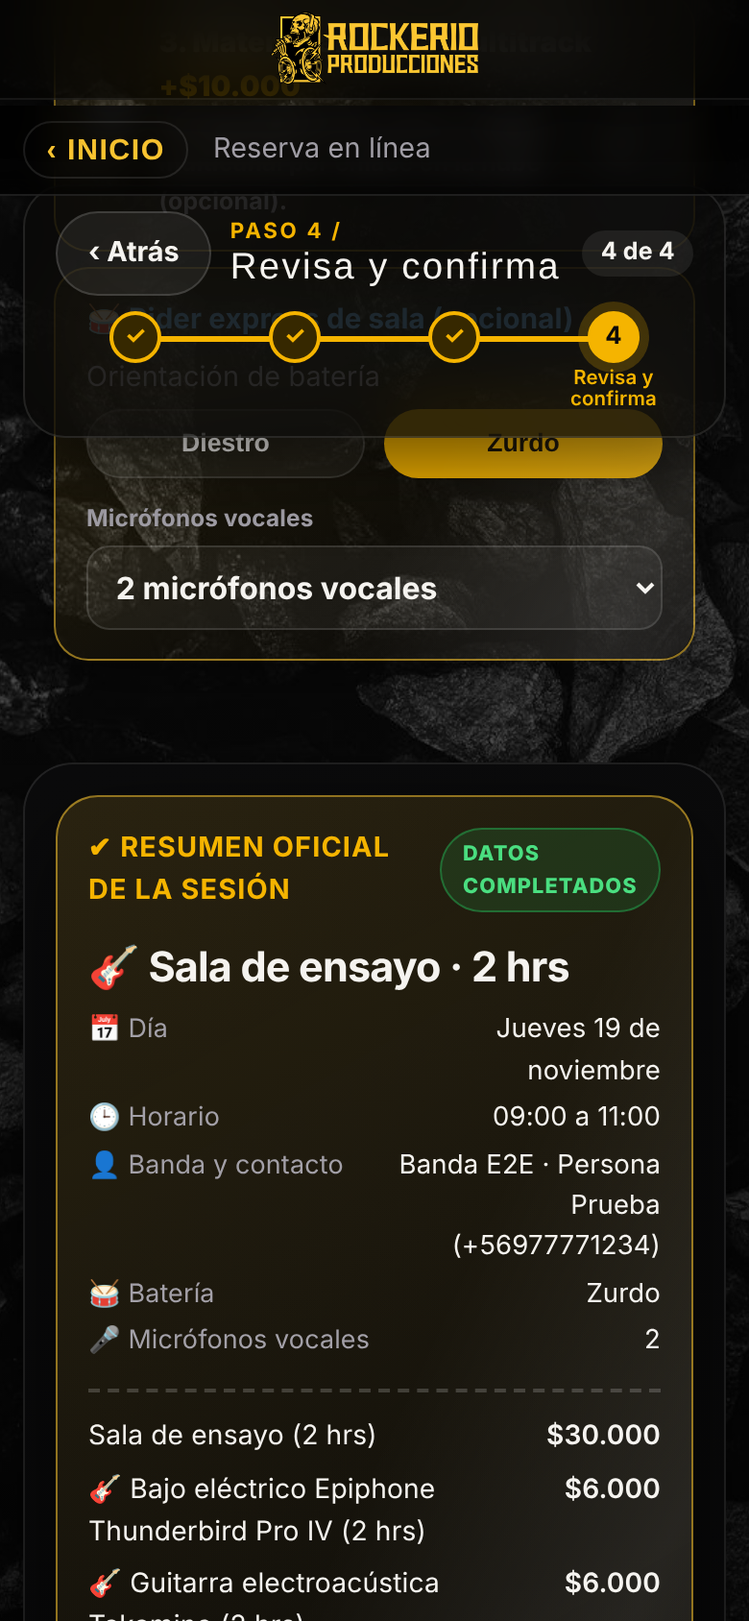
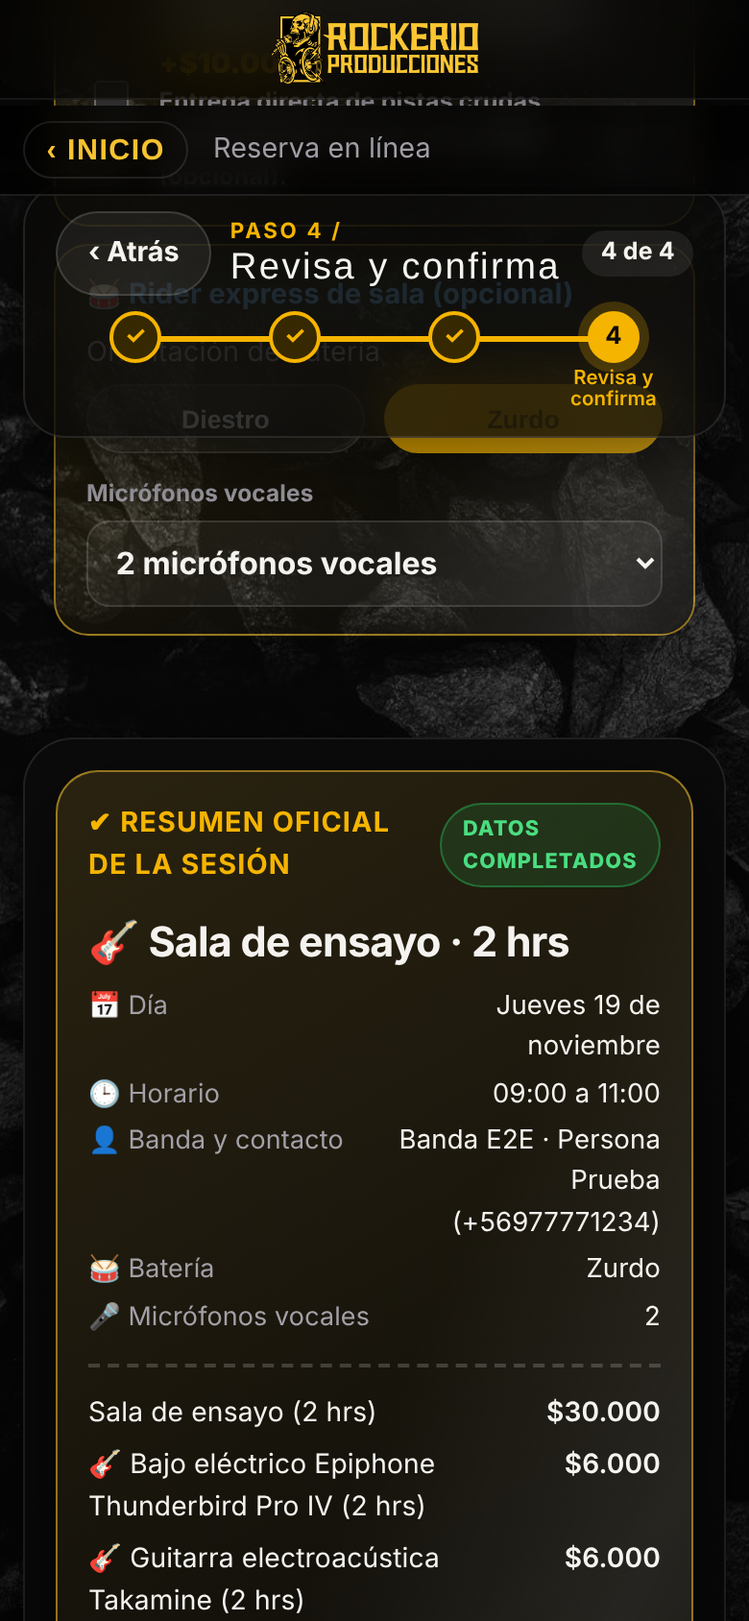
GoPro también en grabación (bruto solo ensayo), extras a la vista, reserva sin abono ya no se libera sola por defecto
Claude-Session: https://claude.ai/code/session_01XCoHY3KD5S9ag2ugMqjwE4

diff --git a/index.html b/index.html
@@ -17,15 +17,15 @@
 <link rel="icon" href="assets/favicon.png">
 <link rel="preconnect" href="https://fonts.googleapis.com">
 <link href="https://fonts.googleapis.com/css2?family=Oswald:wght@500;700&family=Inter:wght@400;600&display=swap" rel="stylesheet">
-<link rel="stylesheet" href="css/styles.css?v=202611180026">
-<link rel="stylesheet" href="css/temas.css?v=202611180026">
-<link rel="stylesheet" href="css/movil.css?v=202611180026">
-<link rel="stylesheet" href="css/clasico.css?v=202611180026">
-<link rel="stylesheet" href="css/pulido.css?v=202611180026">
-<link rel="stylesheet" href="css/produccion.css?v=202611180026">
-<link rel="stylesheet" href="css/legible.css?v=202611180026">
+<link rel="stylesheet" href="css/styles.css?v=202611180043">
+<link rel="stylesheet" href="css/temas.css?v=202611180043">
+<link rel="stylesheet" href="css/movil.css?v=202611180043">
+<link rel="stylesheet" href="css/clasico.css?v=202611180043">
+<link rel="stylesheet" href="css/pulido.css?v=202611180043">
+<link rel="stylesheet" href="css/produccion.css?v=202611180043">
+<link rel="stylesheet" href="css/legible.css?v=202611180043">
 <script>(function(){try{var q=/[?&]rediseno=(\d)/.exec(location.search);if(q)localStorage.setItem('rk-rd',q[1]);if(localStorage.getItem('rk-rd')!=='0'){document.documentElement.classList.add('rd');['css/rediseno.css','https://fonts.googleapis.com/css2?family=Space+Grotesk:wght@500;700&display=swap'].forEach(function(h){var l=document.createElement('link');l.rel='stylesheet';l.href=h;document.head.appendChild(l)})}}catch(e){}})()</script>
-<script src="js/tema.js?v=202611180026"></script><script src="js/teclado.js?v=202611180026" defer></script>
+<script src="js/tema.js?v=202611180043"></script><script src="js/teclado.js?v=202611180043" defer></script>
 <link rel="stylesheet" href="https://fonts.googleapis.com/css2?family=Playfair+Display:wght@600;800&family=Nunito:wght@400;700&family=Space+Mono:wght@400;700&family=Archivo+Black&family=Bebas+Neue&family=Big+Shoulders+Display:wght@800;900&family=Poppins:wght@400;600&display=swap"></head>
 <body>
 <div id="aviso" class="aviso" hidden></div>
@@ -113,13 +113,13 @@
         <label>Comentarios (opcional)<textarea id="comentario" maxlength="300" rows="2"></textarea></label>
         <input type="text" id="web" name="web" tabindex="-1" autocomplete="off" aria-hidden="true" class="trampa">
       </fieldset>
-      <fieldset id="adicionales" class="paso off plegable">
+      <fieldset id="adicionales" class="paso off plegable abierto">
         <legend>Adicionales (opcional)</legend>
-        <button type="button" id="ex-toggle" class="ex-toggle" aria-expanded="false"><span class="ex-mas">＋</span><span class="ex-tx"><b>¿Quieres sumar extras a tu sesión?</b><small>Arriendo de equipos · video GoPro · material en bruto (opcional)</small></span><span class="ex-flecha">›</span></button>
+        <button type="button" id="ex-toggle" class="ex-toggle" aria-expanded="true"><span class="ex-mas">＋</span><span class="ex-tx"><b>¿Quieres sumar extras a tu sesión?</b><small>Arriendo de equipos · video GoPro · material en bruto (opcional)</small></span><span class="ex-flecha">›</span></button>
         <p class="ex-tit">⚡ Extras simplificados y opcionales</p>
         <div class="ex-card"><div class="ex-cab"><b>1. Arriendos de equipos y accesorios</b><span id="p-extra"></span></div>
           <div id="arriendo-lista" class="ex-lista"></div><input type="hidden" id="extras" value="0"></div>
-        <label class="ex-card ex-chk chk"><input type="checkbox" id="video"><span><b>2. Grabación en video GoPro Hero 13 <em id="p-video"></em></b><small>Registro audiovisual de la sesión de sala.</small></span></label>
+        <label class="ex-card ex-chk chk"><input type="checkbox" id="video"><span><b>2. Grabación en video GoPro Hero 13 <em id="p-video"></em></b><small>Registro audiovisual de tu sesión (ensayo o grabación).</small></span></label>
         <label class="ex-card ex-chk chk"><input type="checkbox" id="raw"><span><b>3. Material en bruto multitrack <em id="p-raw"></em></b><small>Entrega directa de pistas crudas multicanal por enlace en la nube (opcional).</small></span></label>
         <div class="ex-card ex-rider"><div class="ex-cab"><b>🥁 Rider express de sala (opcional)</b></div>
           <div class="ex-fila"><div><span class="lbl">Orientación de batería</span><div class="segm ex-segm" id="orient" role="group"><button type="button" class="on" data-z="0">Diestro</button><button type="button" data-z="1">Zurdo</button></div><input type="checkbox" id="zurdo" hidden></div>
@@ -360,14 +360,14 @@
 
 <footer><p class="pie-chips"><span class="chip-ok">● Agenda oficial Rockerío conectada</span></p><img src="assets/marcas/calavera.png" alt="ROCKERÍO Producciones"> <span id="pie"></span></footer>
 
-<script src="js/config.js?v=202611180026"></script>
-<script src="js/reglas.js?v=202611180026"></script>
-<script src="js/app.js?v=202611180026"></script>
-<script src="js/planes.js?v=202611180026"></script>
-<script src="js/mezclador.js?v=202611180026"></script>
-<script src="js/contenido.js?v=202611180026"></script>
-<script src="js/pasos.js?v=202611180026"></script>
-<script src="js/vistas.js?v=202611180026"></script><script src="js/visitas.js?v=202611180026" defer></script>
+<script src="js/config.js?v=202611180043"></script>
+<script src="js/reglas.js?v=202611180043"></script>
+<script src="js/app.js?v=202611180043"></script>
+<script src="js/planes.js?v=202611180043"></script>
+<script src="js/mezclador.js?v=202611180043"></script>
+<script src="js/contenido.js?v=202611180043"></script>
+<script src="js/pasos.js?v=202611180043"></script>
+<script src="js/vistas.js?v=202611180043"></script><script src="js/visitas.js?v=202611180043" defer></script>
 <script>(function(){var h=document.querySelector(".hero-marca");if(!h||matchMedia("(prefers-reduced-motion:reduce)").matches)return;addEventListener("scroll",function(){h.style.setProperty("--par",Math.min(scrollY*.12,60)+"px")},{passive:true})})();</script>
 </body>
 </html>

diff --git a/js/app.js b/js/app.js
@@ -137,7 +137,7 @@
     txt($('dir'), cfg.direccion); txt($('dir2'), String(cfg.direccion || '').replace(/[\s·]+$/, '').toUpperCase()); $('franja-dir').hidden = !cfg.direccion;
     txt($('max-dias'), String(cfg.anticipacionMaxDias));
     $('wsp').href = wspUrl('Hola 👋 Me gustaría consultar por ' + cfg.nombreNegocio);
-    txt($('tyc-txt'), 'Leí el reglamento interno y acepto que el horario queda reservado ' + cfg.minutosReserva + ' minutos a la espera del abono (' + R.clp(cfg.abonoPorHora) + ' por hora) y que puedo anular o reagendar con al menos ' + cfg.horasAnulacion + ' horas de anticipación. También acepto que usen mis datos personales para gestionar mi reserva, según la sección «Protección de datos personales».');
+    txt($('tyc-txt'), 'Leí el reglamento interno y acepto que el horario queda reservado ' + (cfg.liberarSolo ? 'por ' + cfg.minutosReserva + ' minutos ' : '') + 'a la espera del abono (' + R.clp(cfg.abonoPorHora) + ' por hora) y que puedo anular o reagendar con al menos ' + cfg.horasAnulacion + ' horas de anticipación. También acepto que usen mis datos personales para gestionar mi reserva, según la sección «Protección de datos personales».');
     var rl = el('a', 'ver-reg', ' Ver reglamento'); rl.href = '#reglamento'; rl.setAttribute('role', 'button');
     rl.addEventListener('click', function (e) { e.preventDefault(); e.stopPropagation(); abrirReglamento(); }); $('tyc-txt').appendChild(rl);
     txt($('pie'), '© ' + new Date().getFullYear() + ' ' + cfg.nombreNegocio);
@@ -404,8 +404,13 @@
     else ai.hidden = true;
     pintarArriendos();
     var ens = S.servicio === 'ensayo', addOk = R.addonsPermitidos(cfg, S.servicio, S.horas);
-    $('adicionales').hidden = !ens;
-    ['video', 'raw'].forEach(function (id) { $(id).closest('label').style.display = addOk ? '' : 'none'; if (!addOk) $(id).checked = false; });
+    var vidOk = R.videoPermitido(cfg, S.servicio, S.horas);
+    $('adicionales').hidden = !(ens || S.servicio === 'grabacion');
+    $('adicionales').classList.toggle('solo-grab', !ens);
+    var exs = $('ex-toggle').querySelector('small'); if (exs) exs.textContent = ens ? 'Arriendo de equipos · video GoPro · material en bruto (opcional)' : 'Video GoPro de tu sesión (opcional)';
+    var exb = $('video').nextElementSibling.querySelector('b'); if (exb) exb.firstChild.nodeValue = (ens ? '2. ' : '1. ') + 'Grabación en video GoPro Hero 13 ';
+    $('video').closest('label').style.display = vidOk ? '' : 'none'; if (!vidOk) $('video').checked = false;
+    $('raw').closest('label').style.display = addOk ? '' : 'none'; if (!addOk) $('raw').checked = false;
     renumerar();
   }
 
@@ -495,7 +500,7 @@
         var arr = arriendosElegidos(), unit = arr.length ? Math.round(p.extras / arr.length) : p.extras;
         arr.forEach(function (n) { linea('🎸 ' + n.split(':')[0] + (cfg.extraModo === 'hora' ? ' (' + S.horas + (S.horas === 1 ? ' hr' : ' hrs') + ')' : ''), unit); });
       }
-      if (p.video && s.video && ok) linea('🎥 Grabación en video GoPro Hero 13', p.video);
+      if (p.video && s.video && R.videoPermitido(cfg, S.servicio, S.horas)) linea('🎥 Grabación en video GoPro Hero 13', p.video);
       if (p.raw && s.raw && ok) linea('💾 Material en bruto multitrack', p.raw);
       if (p.horasConveniente) its.appendChild(el('div', 'nota ahorro', '✔ Tarifa conveniente aplicada en ' + p.horasConveniente + (p.horasConveniente === 1 ? ' hora' : ' horas') + ' (ahorras ' + R.clp(p.ahorro) + ').'));
       if (g) its.appendChild(el('div', 'nota ahorro', '🎙 Incluye ' + R.minutosTxt(g) + ' de grabación con mezcla.'));
@@ -525,7 +530,7 @@
     var tk = el('div', 'ro-ticket'); var tl = el('div'); tl.appendChild(el('small', '', 'Ticket de reserva generado:')); tl.appendChild(el('b', 'cod', o.titulo.replace(/^.*?(#\S+).*$/, '$1').charAt(0) === '#' ? o.titulo.replace(/^.*?(#\S+).*$/, '$1') : o.titulo)); tk.appendChild(tl);
     var cupo = el('div', 'ro-cupo'); cupo.setAttribute('role', 'timer'); tk.appendChild(cupo); box.appendChild(tk);
     var res = el('div', 'ro-det'); o.lineas.forEach(function (l) { res.appendChild(el('p', '', l)); }); box.appendChild(res);
-    var tm = el('div', 'ro-abono'); var ta = el('div'); ta.appendChild(el('b', '', 'Abona ' + R.clp(o.monto) + ' para confirmar tu horario')); ta.appendChild(el('small', '', 'Tu horario queda tomado por ' + o.pago.minutosReserva + ' minutos; si no llega el abono, se libera solo.')); tm.appendChild(ta); tm.appendChild(el('b', 'v', R.clp(o.monto))); box.appendChild(tm);
+    var tm = el('div', 'ro-abono'); var ta = el('div'); ta.appendChild(el('b', '', 'Abona ' + R.clp(o.monto) + ' para confirmar tu horario')); ta.appendChild(el('small', '', cfg.liberarSolo ? 'Tu horario queda tomado por ' + o.pago.minutosReserva + ' minutos; si no llega el abono, se libera solo.' : 'Tu horario queda guardado a tu nombre. Cuando abones, avísanos con el comprobante para confirmarlo.')); tm.appendChild(ta); tm.appendChild(el('b', 'v', R.clp(o.monto))); box.appendChild(tm);
     var bts = el('div', 'ro-bts'); box.appendChild(bts);
     if (o.pago.link) { var p = el('a', 'ro-b ro-azul', '💳 Pagar abono en línea (instantáneo)'); p.href = o.pago.link; p.target = '_blank'; p.rel = 'noopener'; bts.appendChild(p); }
     if (o.pago.mp && o.pagar) {
@@ -568,7 +573,7 @@
       });
       box.appendChild(yp);
     }
-    iniciarCuenta(cupo, o.pago.segundos, bts);
+    iniciarCuenta(cupo, cfg.liberarSolo ? o.pago.segundos : 0, bts);
     box.scrollIntoView({ behavior: 'smooth', block: 'center' });
   }
   function avisoPago(box, texto, bueno) {

diff --git a/js/reglas.js b/js/reglas.js
@@ -94,6 +94,7 @@ var Reglas = (function () {
     anticipacionMinHoras: 4,
     anticipacionMaxDias: 21,      // se puede reservar desde hoy hasta 21 días después
     planMaxDias: 35,              // los planes mensuales pueden agendar sus 4 sesiones hasta 35 días adelante
+    liberarSolo: false,           // NO: el horario sin abono queda guardado hasta que lo confirmes o anules; SI: se libera solo tras minutosReserva
     minutosReserva: 20,           // minutos que el horario queda tomado esperando el abono; luego se libera solo (5 a 180)
     horasAnulacion: 24,
     retencionPorHora: 1000,
@@ -231,6 +232,7 @@ var Reglas = (function () {
     c.heroTitulo = aTexto(raw.heroTitulo, d.heroTitulo) || d.heroTitulo; c.heroTexto = aTexto(raw.heroTexto, d.heroTexto) || d.heroTexto;
     ['verProduccion', 'verFicha', 'verPlanes', 'verGaleria', 'verEvaluaciones', 'verProaudix', 'verContacto', 'verTienda', 'verHonor', 'verCotizar', 'verReglamento', 'verVivo'].forEach(function (k) { c[k] = aBool(raw[k], d[k]); });
     c.visitasActivo = aBool(raw.visitasActivo, d.visitasActivo);
+    c.liberarSolo = aBool(raw.liberarSolo, d.liberarSolo);
     ['colorEnsayo', 'colorEstudio', 'colorPlan8', 'colorPlan12', 'colorVivo', 'colorBloqueo'].forEach(function (k) { var t = String(raw[k] === undefined || raw[k] === null ? '' : raw[k]).trim().toLowerCase(); c[k] = /^#[0-9a-f]{6}$/.test(t) ? t : d[k]; });
     c.vivoDias = VIVO_DIAS[aTexto(raw.vivoDias, d.vivoDias)] ? aTexto(raw.vivoDias, d.vivoDias) : d.vivoDias;
     c.vivoPrecio = Math.max(0, Math.round(aNumero(raw.vivoPrecio, d.vivoPrecio)));
@@ -281,6 +283,10 @@ var Reglas = (function () {
   function addonsPermitidos(cfg, servicio, horas) {
     return servicio === 'ensayo' && horas >= cfg.addonsMinHoras;
   }
+  /** El video GoPro se ofrece en ensayo y en grabación; el material en bruto solo en ensayo. */
+  function videoPermitido(cfg, servicio, horas) {
+    return (servicio === 'ensayo' || servicio === 'grabacion') && horas >= cfg.addonsMinHoras;
+  }
 
   /** Total = precio x horas + extras + video + material en bruto. Abono = abonoPorHora x horas. */
   /**
@@ -316,10 +322,8 @@ var Reglas = (function () {
       var n = Math.max(0, Math.min(6, +p.extras || 0));
       extras = n * cfg.precioExtraEquipo * (cfg.extraModo === 'hora' ? horas : 1);
     }
-    if (addonsPermitidos(cfg, p.servicio, horas)) {
-      video = p.video ? cfg.precioVideo : 0;
-      raw = p.raw ? cfg.precioRaw : 0;
-    }
+    if (videoPermitido(cfg, p.servicio, horas)) video = p.video ? cfg.precioVideo : 0;
+    if (addonsPermitidos(cfg, p.servicio, horas)) raw = p.raw ? cfg.precioRaw : 0;
     var total = base + extras + video + raw;
     var abono = Math.min(total, cfg.abonoPorHora * horas);
     return { base: base, extras: extras, video: video, raw: raw, total: total, abono: abono, saldo: total - abono, horasConveniente: tc.horas, ahorro: (porHora - tc.precio) * tc.horas };
@@ -505,7 +509,8 @@ var Reglas = (function () {
     }
     if (d.servicio !== 'ensayo') d.extras = 0;
     var calculo = calcularPrecio(cfg, d);
-    if (!addonsPermitidos(cfg, d.servicio, d.horas)) { d.video = false; d.raw = false; }
+    if (!videoPermitido(cfg, d.servicio, d.horas)) d.video = false;
+    if (!addonsPermitidos(cfg, d.servicio, d.horas)) d.raw = false;
     return {
       ok: true,
       datos: d,
@@ -565,7 +570,7 @@ var Reglas = (function () {
     CLAUSULA_DATOS: CLAUSULA_DATOS, TZ: TZ, SERVICIOS: SERVICIOS, VIVO_DIAS: VIVO_DIAS, vivoDiaValido: vivoDiaValido, DIAS: DIAS, CONFIG_POR_DEFECTO: CONFIG_POR_DEFECTO, datosTransf: datosTransf,
     aNumero: aNumero, aBool: aBool, clp: clp, horaTxt: horaTxt, fechaValida: fechaValida, diaSemana: diaSemana,
     diasEntre: diasEntre, sumarDias: sumarDias, fechaLarga: fechaLarga, parseBloque: parseBloque, parseEscala: parseEscala,
-    normalizarConfig: normalizarConfig, limitesHoras: limitesHoras, addonsPermitidos: addonsPermitidos,
+    normalizarConfig: normalizarConfig, limitesHoras: limitesHoras, addonsPermitidos: addonsPermitidos, videoPermitido: videoPermitido,
     calcularPrecio: calcularPrecio, grabacionIncluidaMin: grabacionIncluidaMin, llenarPlantilla: llenarPlantilla, tarifaConveniente: tarifaConveniente, minutosTxt: minutosTxt,
     horasAbiertas: horasAbiertas, horasLibres: horasLibres, inicios: inicios, planInfo: planInfo, validarPlan: validarPlan, finPlan: finPlan, diasPlan: diasPlan,
     normalizarTelefono: normalizarTelefono, correoValido: correoValido, telefonoValido: telefonoValido,

diff --git a/apps-script/Admin.html b/apps-script/Admin.html
@@ -1616,7 +1616,7 @@ var ARRIENDOS_RM=['Set de platos Kingdo SN8 (B8): Hi-Hat 14” / Crash 16” / C
 function pintarDet(box,c){box.textContent='';var t=el_('div','rm-res');function ln(a,v,cl){var p=el_('div',cl||'');p.style.cssText='display:flex;justify-content:space-between;gap:10px';p.appendChild(el_('span','',a));p.appendChild(el_('b','',v));t.appendChild(p)}
   ln('Servicio ('+RM.horas+(RM.horas===1?' hora':' horas')+')',clp(c.base));
   if(RM.servicio==='ensayo')RM.equipos.forEach(function(n){ln('🎸 '+n.split(':')[0],clp(c.unidadExtra))});
-  if(RM.video)ln('🎥 Video GoPro',c.addons?clp(c.video):'no disponible para esta duración');
+  if(RM.video)ln('🎥 Video GoPro',c.videoOk?clp(c.video):'no disponible para esta duración');
   if(RM.raw)ln('💾 Material en bruto',c.addons?clp(c.raw):'no disponible para esta duración');
   if(c.horasConveniente)ln('✔ Tarifa conveniente en '+c.horasConveniente+' h','ahorro '+clp(c.ahorro));
   ln('Total calculado',clp(c.total));ln('Abono ('+clp(c.abonoHora)+' por hora)',clp(c.abono));ln('Saldo en sala',clp(c.saldo));
@@ -1677,7 +1677,7 @@ function pintarRM(){
     var ex=el_('div','full rm-extras');ex.appendChild(el_('b','','Extras (marca los que se cobran)'));var exl=el_('div','');ex.appendChild(exl);var det=el_('div','full rm-det');
     function ticket(txt,ck0,fn,id){var l=el_('label','ex-fila-ck');var ck=document.createElement('input');ck.type='checkbox';ck.checked=ck0;ck.onchange=function(){fn(ck.checked);pedirCalc()};l.appendChild(ck);l.appendChild(el_('span','',txt));if(id)l.id=id;return l}
     if(RM.servicio==='ensayo')ARRIENDOS_RM.forEach(function(n){exl.appendChild(ticket('🎸 '+n.split(':')[0]+(n.indexOf(':')>0?' ('+n.split(':')[1].trim()+')':''),RM.equipos.indexOf(n)>=0,function(v){var i=RM.equipos.indexOf(n);if(v&&i<0)RM.equipos.push(n);if(!v&&i>=0)RM.equipos.splice(i,1);RM.extras=RM.equipos.length}))});
-    exl.appendChild(ticket('🎥 Video GoPro Hero 13',RM.video,function(v){RM.video=v}));exl.appendChild(ticket('💾 Material en bruto multitrack',RM.raw,function(v){RM.raw=v}));fm.appendChild(ex);fm.appendChild(det);
+    exl.appendChild(ticket('🎥 Video GoPro Hero 13',RM.video,function(v){RM.video=v}));if(RM.servicio==='ensayo')exl.appendChild(ticket('💾 Material en bruto multitrack',RM.raw,function(v){RM.raw=v}));fm.appendChild(ex);fm.appendChild(det);
     var tcalc=null;function pedirCalc(){clearTimeout(tcalc);det.textContent='Calculando…';tcalc=setTimeout(function(){RUN.withSuccessHandler(function(c){pintarDet(det,c)}).withFailureHandler(function(){det.textContent=''}).adminCalcularReserva({servicio:RM.servicio,fecha:RM.fecha,inicio:RM.inicio,horas:RM.horas,extras:RM.extras,video:RM.video,raw:RM.raw})},250)}
     pedirCalc();
     campo('comentario','Comentarios','text',true);c.appendChild(fm);

diff --git a/instalacion/Admin.html b/instalacion/Admin.html
@@ -1616,7 +1616,7 @@ var ARRIENDOS_RM=['Set de platos Kingdo SN8 (B8): Hi-Hat 14” / Crash 16” / C
 function pintarDet(box,c){box.textContent='';var t=el_('div','rm-res');function ln(a,v,cl){var p=el_('div',cl||'');p.style.cssText='display:flex;justify-content:space-between;gap:10px';p.appendChild(el_('span','',a));p.appendChild(el_('b','',v));t.appendChild(p)}
   ln('Servicio ('+RM.horas+(RM.horas===1?' hora':' horas')+')',clp(c.base));
   if(RM.servicio==='ensayo')RM.equipos.forEach(function(n){ln('🎸 '+n.split(':')[0],clp(c.unidadExtra))});
-  if(RM.video)ln('🎥 Video GoPro',c.addons?clp(c.video):'no disponible para esta duración');
+  if(RM.video)ln('🎥 Video GoPro',c.videoOk?clp(c.video):'no disponible para esta duración');
   if(RM.raw)ln('💾 Material en bruto',c.addons?clp(c.raw):'no disponible para esta duración');
   if(c.horasConveniente)ln('✔ Tarifa conveniente en '+c.horasConveniente+' h','ahorro '+clp(c.ahorro));
   ln('Total calculado',clp(c.total));ln('Abono ('+clp(c.abonoHora)+' por hora)',clp(c.abono));ln('Saldo en sala',clp(c.saldo));
@@ -1677,7 +1677,7 @@ function pintarRM(){
     var ex=el_('div','full rm-extras');ex.appendChild(el_('b','','Extras (marca los que se cobran)'));var exl=el_('div','');ex.appendChild(exl);var det=el_('div','full rm-det');
     function ticket(txt,ck0,fn,id){var l=el_('label','ex-fila-ck');var ck=document.createElement('input');ck.type='checkbox';ck.checked=ck0;ck.onchange=function(){fn(ck.checked);pedirCalc()};l.appendChild(ck);l.appendChild(el_('span','',txt));if(id)l.id=id;return l}
     if(RM.servicio==='ensayo')ARRIENDOS_RM.forEach(function(n){exl.appendChild(ticket('🎸 '+n.split(':')[0]+(n.indexOf(':')>0?' ('+n.split(':')[1].trim()+')':''),RM.equipos.indexOf(n)>=0,function(v){var i=RM.equipos.indexOf(n);if(v&&i<0)RM.equipos.push(n);if(!v&&i>=0)RM.equipos.splice(i,1);RM.extras=RM.equipos.length}))});
-    exl.appendChild(ticket('🎥 Video GoPro Hero 13',RM.video,function(v){RM.video=v}));exl.appendChild(ticket('💾 Material en bruto multitrack',RM.raw,function(v){RM.raw=v}));fm.appendChild(ex);fm.appendChild(det);
+    exl.appendChild(ticket('🎥 Video GoPro Hero 13',RM.video,function(v){RM.video=v}));if(RM.servicio==='ensayo')exl.appendChild(ticket('💾 Material en bruto multitrack',RM.raw,function(v){RM.raw=v}));fm.appendChild(ex);fm.appendChild(det);
     var tcalc=null;function pedirCalc(){clearTimeout(tcalc);det.textContent='Calculando…';tcalc=setTimeout(function(){RUN.withSuccessHandler(function(c){pintarDet(det,c)}).withFailureHandler(function(){det.textContent=''}).adminCalcularReserva({servicio:RM.servicio,fecha:RM.fecha,inicio:RM.inicio,horas:RM.horas,extras:RM.extras,video:RM.video,raw:RM.raw})},250)}
     pedirCalc();
     campo('comentario','Comentarios','text',true);c.appendChild(fm);

diff --git a/tests/reglas.test.js b/tests/reglas.test.js
@@ -24,9 +24,14 @@ t('extras por sesión cuando extraModo = sesion', () => {
   const c = R.normalizarConfig({ extraModo: 'sesion' });
   assert.strictEqual(R.calcularPrecio(c, { servicio: 'ensayo', horas: 3, extras: 2 }).extras, 6000);
 });
-t('grabación 4 h = $120.000 y no admite video ni extras', () => {
-  const p = R.calcularPrecio(cfg, { servicio: 'grabacion', horas: 4, extras: 3, video: true, raw: true });
+t('grabación 4 h = $120.000 y no admite extras ni material en bruto', () => {
+  const p = R.calcularPrecio(cfg, { servicio: 'grabacion', horas: 4, extras: 3, video: false, raw: true });
   assert.deepStrictEqual([p.total, p.abono], [120000, 20000]);
+});
+t('el video GoPro sí se ofrece en grabación (desde las horas mínimas) y el bruto no', () => {
+  const p = R.calcularPrecio(cfg, { servicio: 'grabacion', horas: 4, video: true, raw: true });
+  assert.deepStrictEqual([p.video, p.raw, p.total], [cfg.precioVideo, 0, 120000 + cfg.precioVideo]);
+  assert.strictEqual(R.calcularPrecio(cfg, { servicio: 'grabacion', horas: 1, video: true }).video, 0);
 });
 t('video y bruto no se cobran bajo 2 horas', () => {
   const p = R.calcularPrecio(cfg, { servicio: 'ensayo', horas: 1, video: true, raw: true });
@@ -167,10 +172,10 @@ t('datos incompletos o inválidos', () => {
   assert.ok(!malo('servicio', 'otro').ok);
   assert.ok(!malo('fecha', '2026-02-31').ok);
 });
-t('extras y video se ignoran en grabación', () => {
-  const r = R.validarSolicitud(cfg, ahora, Object.assign({}, base, { servicio: 'grabacion', extras: 3, video: true }), []);
+t('extras y material en bruto se ignoran en grabación', () => {
+  const r = R.validarSolicitud(cfg, ahora, Object.assign({}, base, { servicio: 'grabacion', extras: 3, raw: true }), []);
   assert.ok(r.ok);
-  assert.deepStrictEqual([r.calculo.total, r.datos.extras, r.datos.video], [60000, 0, false]);
+  assert.deepStrictEqual([r.calculo.total, r.datos.extras, r.datos.raw], [60000, 0, false]);
 });
 t('el texto se limpia de caracteres de control y se acota', () => {
   const r = R.validarDatos(Object.assign({}, base, { banda: 'A\u0000B\n  C' + 'x'.repeat(100) }));

diff --git a/disponibilidad.html b/disponibilidad.html
@@ -5,8 +5,8 @@
 <title>Disponibilidad · ROCKERÍO Producciones</title>
 <link rel="icon" href="assets/favicon.png">
 <link href="https://fonts.googleapis.com/css2?family=Oswald:wght@500;700&family=Inter:wght@400;600&display=swap" rel="stylesheet">
-<link rel="stylesheet" href="css/styles.css?v=202611180026"><link rel="stylesheet" href="css/temas.css?v=202611180026"><link rel="stylesheet" href="css/portal.css?v=202611180026"><link rel="stylesheet" href="css/disp.css?v=202611180026">
-<script src="js/tema.js?v=202611180026"></script><script src="js/teclado.js?v=202611180026" defer></script>
+<link rel="stylesheet" href="css/styles.css?v=202611180043"><link rel="stylesheet" href="css/temas.css?v=202611180043"><link rel="stylesheet" href="css/portal.css?v=202611180043"><link rel="stylesheet" href="css/disp.css?v=202611180043">
+<script src="js/tema.js?v=202611180043"></script><script src="js/teclado.js?v=202611180043" defer></script>
 <link rel="stylesheet" href="https://fonts.googleapis.com/css2?family=Playfair+Display:wght@600;800&family=Nunito:wght@400;700&family=Space+Mono:wght@400;700&family=Archivo+Black&family=Bebas+Neue&family=Poppins:wght@400;600&display=swap"></head><body>
 <main class="pg disp">
   <a class="marca" href="index.html"><img src="assets/logo-horizontal-dorado.png" alt="ROCKERÍO Producciones"></a>
@@ -15,5 +15,5 @@
   <p class="dp-ley"><span style="--c:#3ddc84">Con horas libres</span><span style="--c:#FCC631">Quedan pocas</span><span style="--c:#8a8581">Sin cupo</span><span style="--c:#555">Cerrado</span></p>
   <div id="dias"><p class="sub">Cargando…</p></div>
 </main>
-<script src="js/config.js?v=202611180026"></script><script src="js/reglas.js?v=202611180026"></script><script src="js/agenda.js?v=202611180026"></script>
+<script src="js/config.js?v=202611180043"></script><script src="js/reglas.js?v=202611180043"></script><script src="js/agenda.js?v=202611180043"></script>
 </body></html>

diff --git a/agenda/index.html b/agenda/index.html
@@ -6,8 +6,8 @@
 <title>Agenda · Rockerío</title>
 <link rel="icon" href="assets/favicon.png">
 <link href="https://fonts.googleapis.com/css2?family=Oswald:wght@500;700&family=Inter:wght@400;600&display=swap" rel="stylesheet">
-<link rel="stylesheet" href="css/styles.css?v=202611180026"><link rel="stylesheet" href="css/temas.css?v=202611180026"><link rel="stylesheet" href="css/portal.css?v=202611180026">
-<script src="js/tema.js?v=202611180026"></script><script src="js/teclado.js?v=202611180026" defer></script>
+<link rel="stylesheet" href="css/styles.css?v=202611180043"><link rel="stylesheet" href="css/temas.css?v=202611180043"><link rel="stylesheet" href="css/portal.css?v=202611180043">
+<script src="js/tema.js?v=202611180043"></script><script src="js/teclado.js?v=202611180043" defer></script>
 <link rel="stylesheet" href="https://fonts.googleapis.com/css2?family=Playfair+Display:wght@600;800&family=Nunito:wght@400;700&family=Space+Mono:wght@400;700&family=Archivo+Black&family=Bebas+Neue&family=Poppins:wght@400;600&display=swap"></head><body data-modo="social">
 <main class="pg">
   <img src="assets/logo-horizontal-dorado.png" alt="ROCKERÍO Producciones" style="height:44px">
@@ -20,5 +20,5 @@
   <section id="v-bebestible" hidden></section>
   <section id="v-historial" hidden></section>
 </main>
-<script src="js/config.js?v=202611180026"></script><script src="js/reglas.js?v=202611180026"></script><script src="js/socios.js?v=202611180026"></script>
+<script src="js/config.js?v=202611180043"></script><script src="js/reglas.js?v=202611180043"></script><script src="js/socios.js?v=202611180043"></script>
 </body></html>

diff --git a/tests/e2e/flujo.test.js b/tests/e2e/flujo.test.js
@@ -81,10 +81,21 @@ t('fórmulas maliciosas se guardan como texto (no se ejecutan en la hoja)', () =
 });
 
 console.log('\n== 4. Pago pendiente y cuenta regresiva ==');
+g.admin('adminGuardarAjustes', { liberarSolo: 'SI' }); // estas pruebas verifican el modo «liberar solo»
 t('el bloque sin abono se libera solo al vencer el tiempo y queda libre para otra persona', () => {
   g.avanzar(25 * 60 * 1000); C.liberarPendientes();
   const r = g.post(sol({ telefono: '56944443333', banda: 'Nuevos', nombre: 'Carla Rojas', correo: 'c@c.cl' })); assert.ok(r.ok, JSON.stringify(r));
   const f = g.hoja('Reservas').find((x) => x[0] === cod1); assert.ok(!f || /(Cancel|Venc|Libera|Anul)/i.test(String(f[RES('estado')])), 'estado ' + (f && f[RES('estado')]));
+});
+
+t('con «liberar solo» en NO, la reserva sin abono NO se anula y nadie más puede tomar el bloque', () => {
+  g.admin('adminGuardarAjustes', { liberarSolo: 'NO' });
+  const dia = diaLibre(15, 1, 3);
+  const r = g.post(sol({ fecha: dia, inicio: 15, horas: 1, telefono: '56955550000', banda: 'Sin Prisa', nombre: 'Paz Mora', correo: 'p@p.cl' })); assert.ok(r.ok, JSON.stringify(r));
+  g.avanzar(400 * 60 * 1000); C.liberarPendientes();
+  const f = g.hoja('Reservas').find((x) => x[0] === r.codigo); assert.ok(/sin abono/i.test(String(f[RES('estado')])), 'estado ' + f[RES('estado')]);
+  const o = g.post(sol({ fecha: dia, inicio: 15, horas: 1, telefono: '56966660000', banda: 'Otra', nombre: 'Ana L', correo: 'o@o.cl' })); assert.ok(!o.ok, 'el bloque sigue tomado');
+  g.admin('adminGuardarAjustes', { liberarSolo: 'SI' });
 });
 
 console.log('\n== 5. Administrador ==');

diff --git a/socios.html b/socios.html
@@ -5,8 +5,8 @@
 <title>Socios · ROCKERÍO</title>
 <link rel="icon" href="assets/favicon.png">
 <link href="https://fonts.googleapis.com/css2?family=Oswald:wght@500;700&family=Inter:wght@400;600&display=swap" rel="stylesheet">
-<link rel="stylesheet" href="css/styles.css?v=202611180026"><link rel="stylesheet" href="css/temas.css?v=202611180026"><link rel="stylesheet" href="css/portal.css?v=202611180026">
-<script src="js/tema.js?v=202611180026"></script><script src="js/teclado.js?v=202611180026" defer></script>
+<link rel="stylesheet" href="css/styles.css?v=202611180043"><link rel="stylesheet" href="css/temas.css?v=202611180043"><link rel="stylesheet" href="css/portal.css?v=202611180043">
+<script src="js/tema.js?v=202611180043"></script><script src="js/teclado.js?v=202611180043" defer></script>
 <link rel="stylesheet" href="https://fonts.googleapis.com/css2?family=Playfair+Display:wght@600;800&family=Nunito:wght@400;700&family=Space+Mono:wght@400;700&family=Archivo+Black&family=Bebas+Neue&family=Poppins:wght@400;600&display=swap"></head><body>
 <main class="pg">
   <img src="assets/logo-horizontal-dorado.png" alt="ROCKERÍO Producciones" style="height:44px">
@@ -19,5 +19,5 @@
   <section id="v-bebestible" hidden></section>
   <section id="v-historial" hidden></section>
 </main>
-<script src="js/config.js?v=202611180026"></script><script src="js/reglas.js?v=202611180026"></script><script src="js/socios.js?v=202611180026"></script>
+<script src="js/config.js?v=202611180043"></script><script src="js/reglas.js?v=202611180043"></script><script src="js/socios.js?v=202611180043"></script>
 </body></html>

diff --git a/proaudix/index.html b/proaudix/index.html
@@ -6,8 +6,8 @@
 <title>ProAudix · Rockerío</title>
 <link rel="icon" href="assets/favicon.png">
 <link href="https://fonts.googleapis.com/css2?family=Oswald:wght@500;700&family=Inter:wght@400;600&display=swap" rel="stylesheet">
-<link rel="stylesheet" href="css/styles.css?v=202611180026"><link rel="stylesheet" href="css/temas.css?v=202611180026"><link rel="stylesheet" href="css/portal.css?v=202611180026">
-<script src="js/tema.js?v=202611180026"></script>
+<link rel="stylesheet" href="css/styles.css?v=202611180043"><link rel="stylesheet" href="css/temas.css?v=202611180043"><link rel="stylesheet" href="css/portal.css?v=202611180043">
+<script src="js/tema.js?v=202611180043"></script>
 <link rel="stylesheet" href="https://fonts.googleapis.com/css2?family=Playfair+Display:wght@600;800&family=Nunito:wght@400;700&family=Space+Mono:wght@400;700&family=Archivo+Black&family=Bebas+Neue&family=Poppins:wght@400;600&display=swap"></head><body data-modo="colega">
 <main class="pg">
   <img src="assets/logo-horizontal-dorado.png" alt="ROCKERÍO Producciones" style="height:44px">
@@ -20,5 +20,5 @@
   <section id="v-bebestible" hidden></section>
   <section id="v-historial" hidden></section>
 </main>
-<script src="js/config.js?v=202611180026"></script><script src="js/reglas.js?v=202611180026"></script><script src="js/socios.js?v=202611180026"></script>
+<script src="js/config.js?v=202611180043"></script><script src="js/reglas.js?v=202611180043"></script><script src="js/socios.js?v=202611180043"></script>
 </body></html>

diff --git a/tests/e2e/navegador-sitio.js b/tests/e2e/navegador-sitio.js
@@ -31,8 +31,7 @@ const { sembrar } = require('./demo.js');
   await p.fill('#banda', 'x'); await p.fill('#nombre', 'x');
   await p.fill('#banda', 'Banda E2E'); await p.fill('#nombre', 'Persona Prueba'); await p.fill('#telefono', '+56 9 7777 1234'); await p.fill('#correo', 'e2e@correo.cl');
   await p.click('#wiz-sig'); await p.waitForTimeout(400);
-  ok(await p.locator('#ex-toggle').isVisible() && !(await p.locator('#arriendo-lista').isVisible()), 'adicionales plegados en la pantalla final');
-  await p.click('#ex-toggle'); await p.waitForTimeout(200);
+  ok(await p.locator('#ex-toggle').isVisible() && await p.locator('#arriendo-lista').isVisible(), 'adicionales a la vista en la pantalla final');
   ok(await p.locator('#arriendo-lista .ex-fila-ck').count() === 6, 'seis arriendos individuales');
   const antesT = await p.textContent('#tr-total'); await p.locator('#arriendo-lista .ex-fila-ck').nth(1).click(); await p.locator('#arriendo-lista .ex-fila-ck').nth(3).click(); await p.waitForTimeout(200);
   ok((await p.textContent('#tr-total')) !== antesT && /Epiphone|Takamine|Squier|Kingdo|Kingdo/.test(await p.textContent('#ro-items')), 'elegir arriendos cambia el total y se ve en el resumen');
